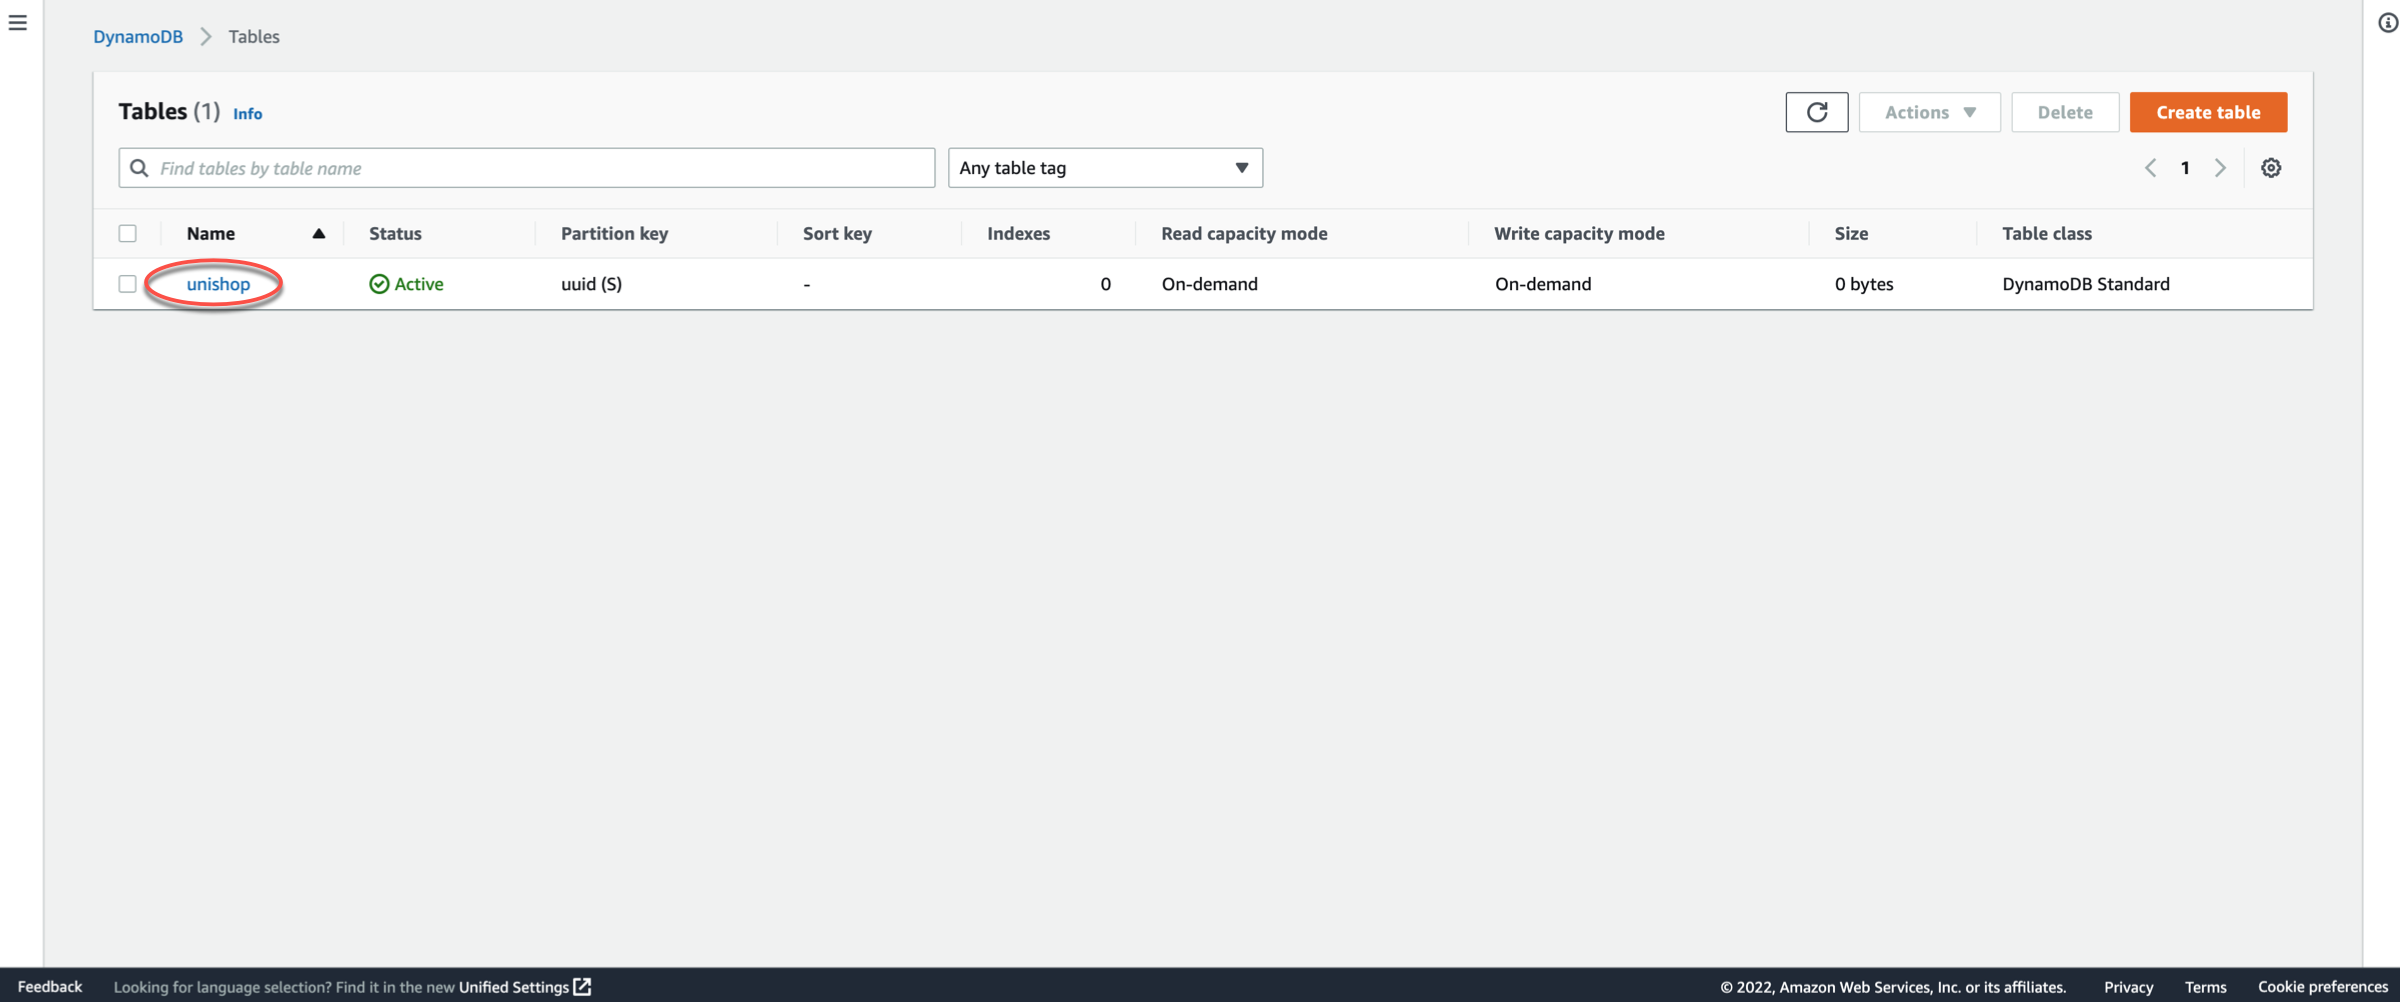
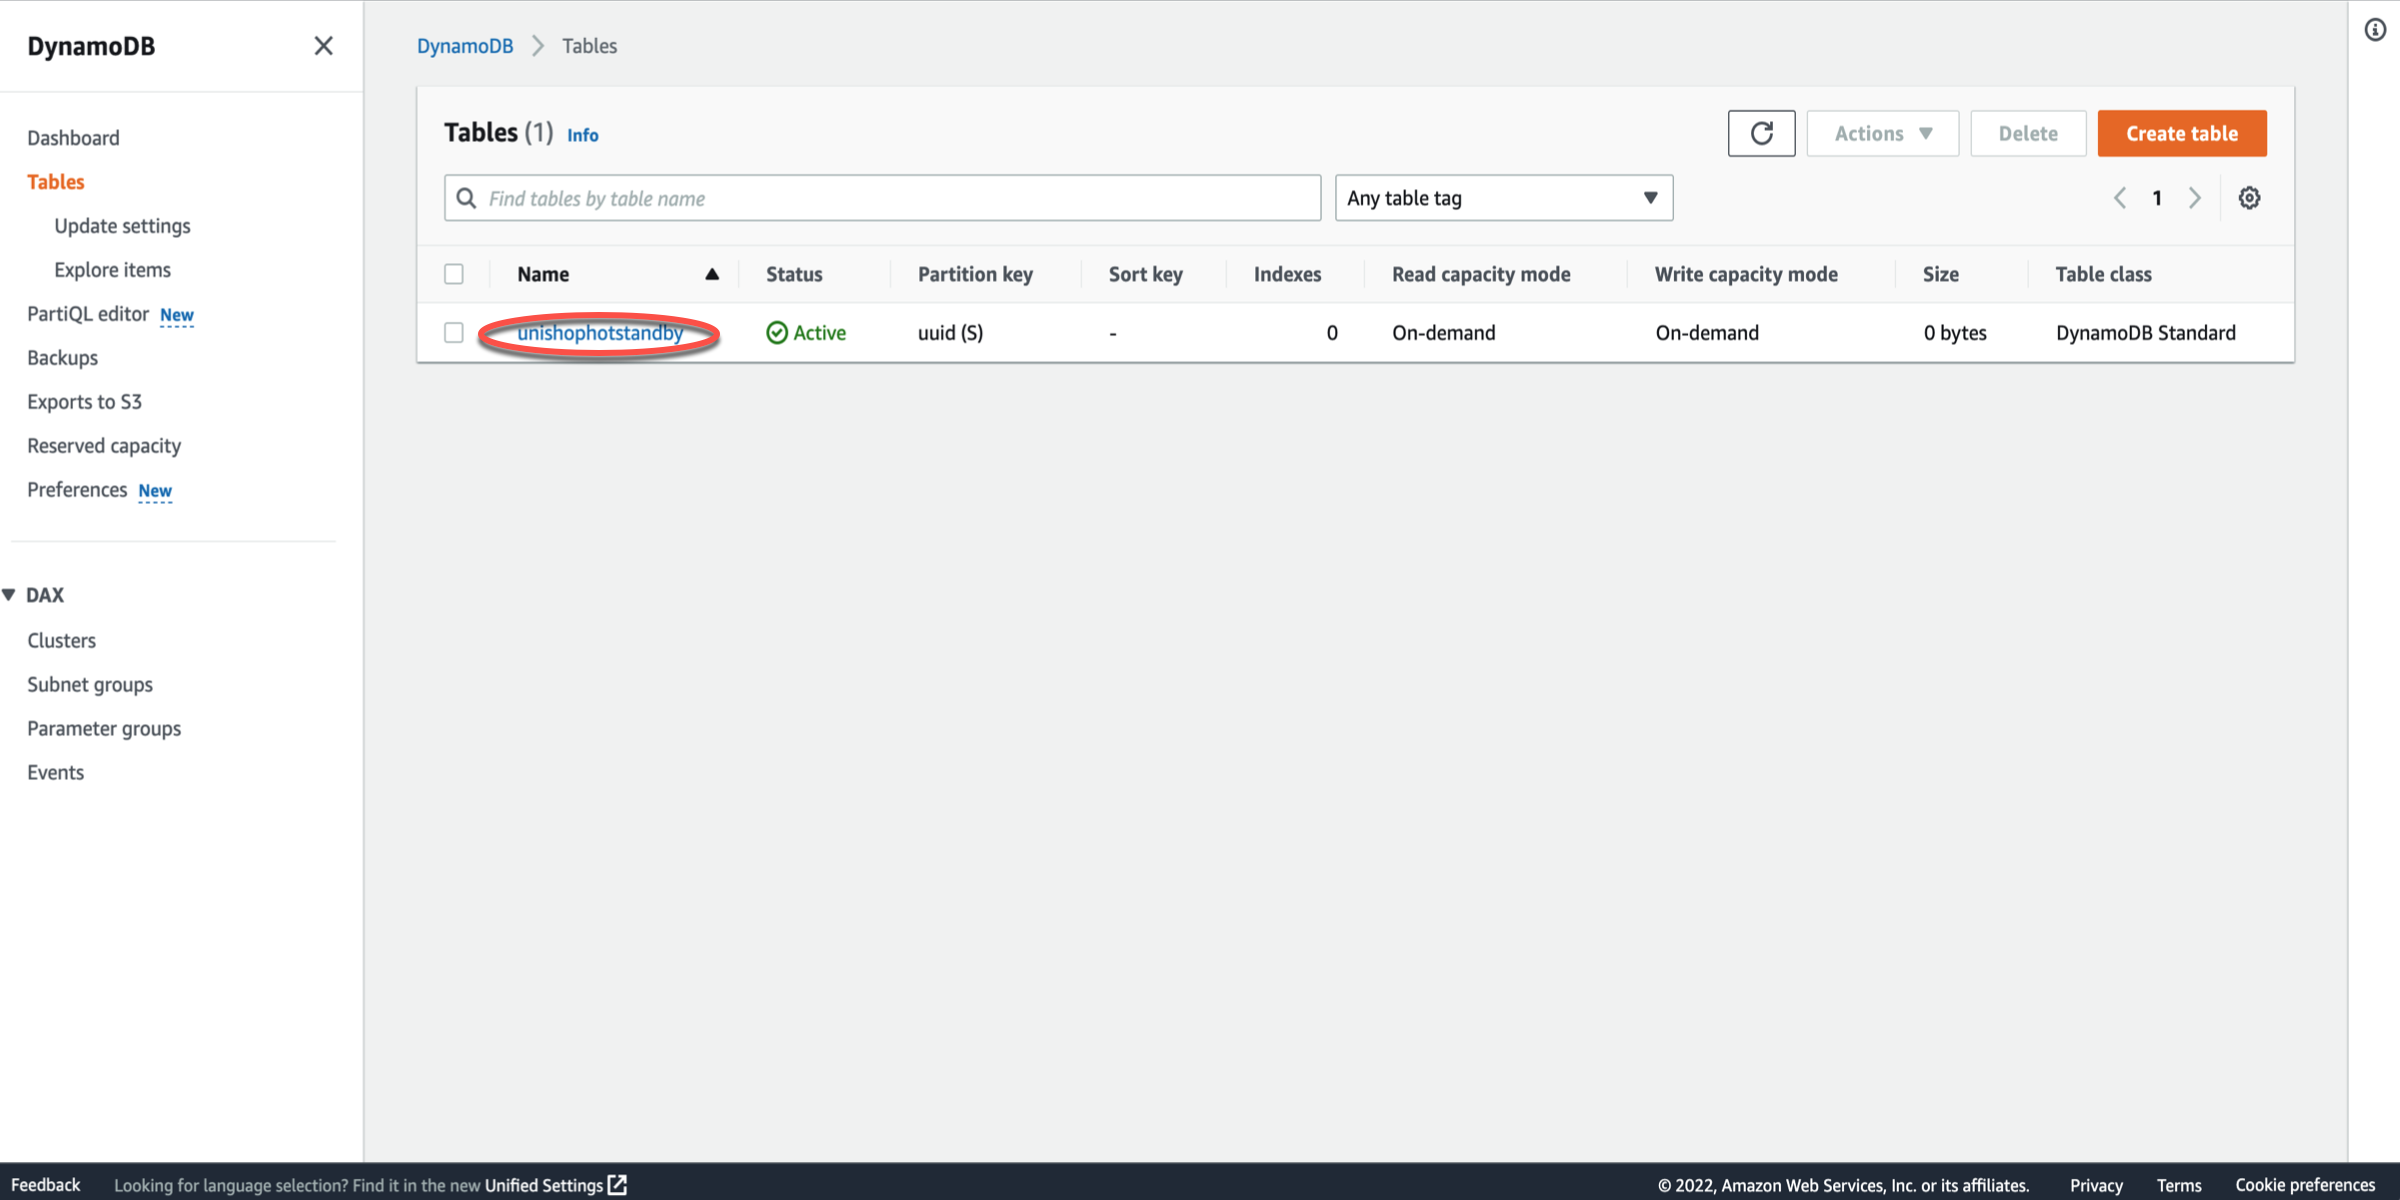
Hot Standby Final

diff --git a/content/Reliability/Disaster Recovery/Workshop_4/5-failover/5.2-ec2/_index.en.md b/content/Reliability/Disaster Recovery/Workshop_4/5-failover/5.2-ec2/_index.en.md
@@ -4,25 +4,42 @@ date =  2021-05-11T11:43:28-04:00
 weight = 7
 +++
 
-### Launch EC2 Instance 
+### Reconfigure Application
 
-1.1 Navigate to [CloudFormation Stacks](https://console.aws.amazon.com/cloudformation/home?region=us-west-1#/stacks/) in **N. California (us-west-1)** region.
+We are going to want to change the application that is running in the secondary region to point to the newly promoted Amazon Aurora cluster.
 
-1.2 Select the **hot-secondary** stack and click **Update**.
+1.1 Click [EC2](https://us-west-1.console.aws.amazon.com/ec2/v2/home?region=us-west-1#Instances:instanceState=running) to navigate to the dashboard in the **N. California (us-west-1)** region.
 
-{{< img da-2.png >}}
+1.2 Select **hot-secondary**, then click the **Connect** button.
 
-1.3 Chose **Use current template** and click **Next** to continue.
+{{< img am-3.png >}}
 
-{{< img da-3.png >}}
+1.3 Click the **Session Manager** link, then click the **Connect** button.
 
-1.4 Update the **IsPromote** parameter to `yes` and click **Next** to continue.
+{{< img am-4.png >}}
 
-{{< img da-4.png >}}
+1.4 After a brief moment, a terminal prompt will display.
 
-1.5 Scroll to the bottom of the page, click the checkbox to acknowledge IAM role creation, and then click **Update stack**.
+{{< img am-5.png >}}
 
-{{< img da-5.png >}}
+1.5. Copy and paste the following script which will configure the application to use the secondary region **N. California (us-west-1)** database and restart the application.
+
+```sh
+sudo su ec2-user                        
+export AWS_DEFAULT_REGION=$(curl -s http://169.254.169.254/latest/dynamic/instance-identity/document | python -c "import json,sys; print json.loads(sys.stdin.read())['region']")
+export DATABASE=$(aws rds describe-db-clusters --region $AWS_DEFAULT_REGION --db-cluster-identifier hot-secondary --query 'DBClusters[*].[Endpoint]' --output text)
+sudo bash -c "cat >/home/ec2-user/unishopcfg.sh" <<EOF
+#!/bin/bash
+export DB_ENDPOINT=$DATABASE
+EOF
+sudo bash -c "cat >/home/ec2-user/unishopstart.sh" <<EOF
+#!/bin/bash
+source /home/ec2-user/unishopcfg.sh   
+java -jar /home/ec2-user/UniShopAppV1-0.0.1-SNAPSHOT.jar &> /home/ec2-user/app.log &
+EOF
+sudo systemctl restart unishop
+
+```
 
 {{< prev_next_button link_prev_url="../5.1-aurora/" link_next_url="../../6-verify-secondary/" />}}
 

diff --git a/content/Reliability/Disaster Recovery/Workshop_4/2-dynamodb/_index.en.md b/content/Reliability/Disaster Recovery/Workshop_4/2-dynamodb/_index.en.md
@@ -14,7 +14,7 @@ When you create a DynamoDB global table, it consists of multiple replica tables 
 
 {{< img dd-2.png >}}
 
-1.3 Click the **unishop** link.
+1.3 Click the **unishophotstandby** link.
 
 {{< img dd-3.png >}}
 
@@ -27,9 +27,7 @@ When you create a DynamoDB global table, it consists of multiple replica tables 
 {{< img dd-5.png >}}
 
 {{% notice note %}}
-This might take a few minutes, feel free to move onto the next step.  Just ensure the status is showing **Active** before moving on to the next step.
+Wait for the status to show **Active** before moving on to the next step.
 {{% /notice %}}
-
-{{< img dd-6.png >}}
 
 {{< prev_next_button link_prev_url="../1-prerequisites/" link_next_url="../3-verify-websites/" />}}

diff --git a/content/Reliability/Disaster Recovery/Workshop_4/5-failover/5.1-aurora/_index.en.md b/content/Reliability/Disaster Recovery/Workshop_4/5-failover/5.1-aurora/_index.en.md
@@ -26,5 +26,9 @@ For this workshop we will be doing a [Managed Unplanned Failover](https://docs.a
 
 {{< img a-4.png >}}
 
+{{% notice note %}}
+Wait for the secondary cluster to be promoted before moving on to the next step.
+{{% /notice %}}
+
 {{< prev_next_button link_prev_url="../" link_next_url="../5.2-ec2/" />}}
 

diff --git a/content/Reliability/Disaster Recovery/Workshop_4/7-cleanup/_index.en.md b/content/Reliability/Disaster Recovery/Workshop_4/7-cleanup/_index.en.md
@@ -35,7 +35,7 @@ Please repeat steps **1.1** through **1.4** for the following buckets:</br>
 
 {{< img dd-2.png >}}
 
-2.3 Click **unishop**.
+2.3 Click **unishophotstandby**.
 
 {{< img dd-3.png >}}
 
